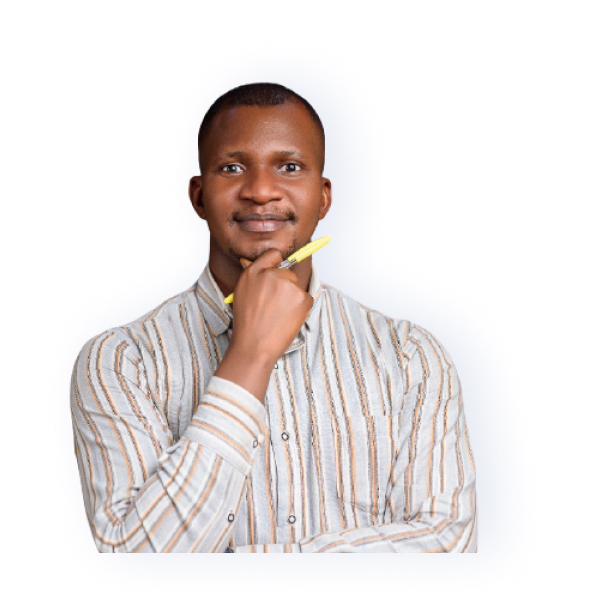
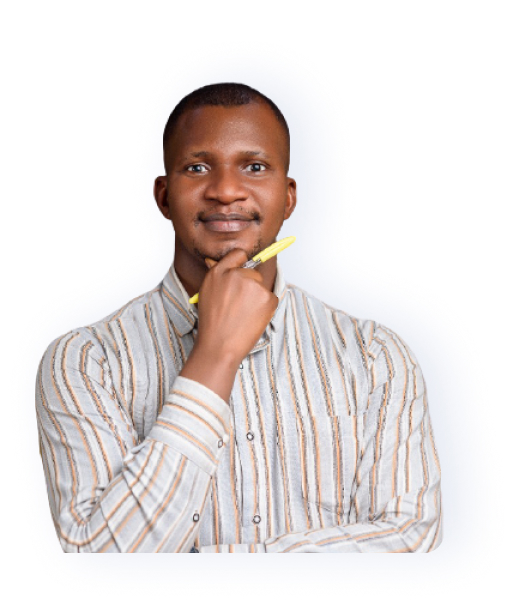
feat:first section of mobile

Changed region(s): [[0.0621, 0.1188, 0.8699, 0.9208]]

diff --git a/index.html b/index.html
@@ -7,7 +7,7 @@
     <title>Document</title>
 </head>
 <body>
-    <section class="blue-bg">
+    <section class="">
     <nav class="flex items-center justify-between flex-wrap p-6 w-full top-0">
         <div class="flex items-center flex-shrink-0 text-white mr-6">
             <a class="" href="index.html">
@@ -43,15 +43,48 @@
     </nav>
     </section>
 
+    <!-- left section of hero (with text) -->
     <section class="flex items-center justify-between flex-wrap p-6 w-full top-0">
-        <header class="yellow-bg">
-            <h1>We build and elevate
-                <h1
-     class="txt-rotate"
+        <header class="hfont-800 blue-txt h-24 mb-6">
+            <h1 class="text-2xl">We build and elevate
+                <span
+     class="txt-rotate text-4xl block"
      data-period="2000"
-     data-rotate='[ "your business.", "your brand.", "your websites.", "your social media.", "your evrything!" ]'></h1>
+     data-rotate='[ "your business...", "your brand...", "your websites...", "your media...", "your everything!!!" ]'></span>
             </h1>
         </header>
+        <aside class="midblack-txt metro-400 mb-6">
+            <h2>
+                Inspark Enterprise is a full-service digital agency specializing in digital consulting, web design & development, application design & development, and digital marketing.
+            </h2>
+        </aside>
+        <aside>
+            <a href="#"
+            ><button
+              class="blue-bg py-2 px-8 text-xl rounded-md white-txt focus:outline-none"
+            >
+              Request a Quote
+            </button></a
+          >
+        </aside>
+    </section>
+
+    <!-- right section of hero (with image) -->
+    <section class="p-6 h-64">
+        <aside class="float-right ml-20">
+      <div class="circ w-48 h-48 yellow-bg rounded-full"></div>  
+      <img src="img/hero-image-ekene@2x.png" alt="hero-image" class="hero-image -mt-56 ml-8">
+    </aside>
+    </section>
+
+    <section class="h-10 w-full flex justify-center mt-20 mb-64">
+        <aside class="h-10 w-2/3 flex justify-between">
+            <img src="img/facebook.png" alt="social" class="w-10">
+            <img src="img/Instagram.png" alt="social" class="w-10">
+            <img src="img/Twitter.png" alt="social" class="w-10">
+            <img src="img/LinkedIn.png" alt="social" class="w-10">
+            <img src="img/Inbox.png" alt="social" class="w-10">
+        </aside>
     </section>
 
     <script src="js/script.js"></script>

diff --git a/style.css b/style.css
@@ -1,4 +1,4 @@
-@import url("https://fonts.googleapis.com/css2?family=EB+Garamond:wght@800&display=swap");
+@import url("https://fonts.googleapis.com/css2?family=Montserrat:wght@900&display=swap");
 
 @font-face {
   font-family: metropolis-400;
@@ -9,7 +9,7 @@
   src: url(Metropolis/Metropolis-Medium.otf);
 }
 :root {
-  --blue: #0668e3;
+  --blue: #234095;
   --yellow: #f2ea1b;
   --black: #18191f;
   --midblack: #474a57;
@@ -58,8 +58,12 @@
   font-family: graphik-600;
 }
 .hfont-800 {
-  font-family: "EB Garamond", serif;
+  font-family: "Montserrat", sans-serif;
 }
-* {
-  border: 1px solid var(--yellow);
+
+.hero-image {
+  width: 20rem;
+}
+.icon {
+  width: 12rem;
 }

diff --git a/js/script.js b/js/script.js
@@ -52,4 +52,9 @@ window.onload = function() {
     if (toRotate) {
       new TxtRotate(elements[i], JSON.parse(toRotate), period);
     }
-}}
+}
+var css = document.createElement("style");
+css = "text/css";
+css.innerHTML = ".txt-rotate > .wrap { border-right: 0.08em solid #666 }";
+document.body.appendChild(css);
+};
